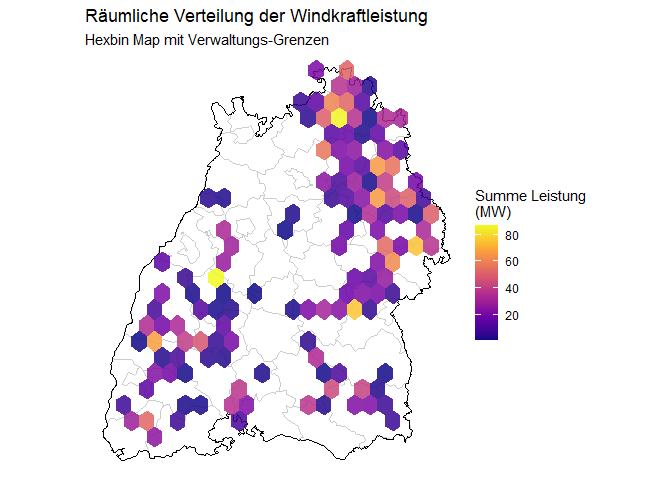
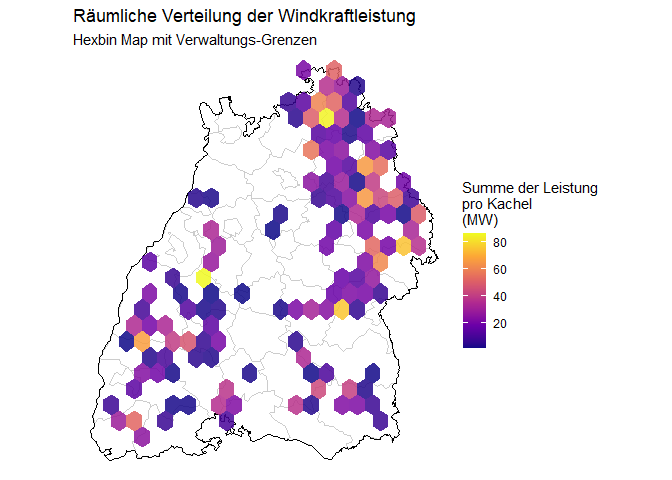
Updated info texts

Changed region(s): [[0.125, 0.125, 0.9062, 0.9688], [0.0938, 0.0, 0.6562, 0.0938]]

diff --git a/Projects/TobiTuTuebingen/dariodemenusV2.md b/Projects/TobiTuTuebingen/dariodemenusV2.md
@@ -1,3 +1,15 @@
+1.  Datenimport und Bereinigung Ziel: Vorbereitung einer sauberen
+    Datenbasis für die Analyse.
+
+Zunächst wurde der Datensatz WindenergieBW.csv importiert. Um die
+Datenverarbeitung zu erleichtern, wurden die Spaltennamen vereinfacht
+(z. B. Umbenennung von ‘Generatorleistung \[MW\]’ zu ‘Leistung\_MW’).
+Ein wesentlicher Schritt war die Umwandlung des Inbetriebnahmedatums von
+einem Textformat in ein Datumsformat, um daraus das Baujahr (‘Jahr’) zu
+extrahieren. Zudem wurden Datensätze ohne gültige Geokoordinaten
+(Ost/Nord) herausgefiltert, um eine fehlerfreie kartografische
+Darstellung zu gewährleisten.
+
     # Import using readr. 
     # The locale encoding argument helps ensure special characters are read correctly.
     wind_data <- read_delim("WindenergieBW.csv", 
@@ -181,6 +193,15 @@
 
 Vorschau der bereinigten Winddaten
 
+1.  Zeitliche Entwicklung: Ausbau vs. Leistung (Dual-Axis Plot) Ziel:
+    Darstellung, wie sich die Anzahl der Neubauten im Verhältnis zur
+    installierten Leistung entwickelt hat.
+
+Diese Visualisierung vergleicht die Anzahl der neu gebauten Windräder
+(blaue Balken) mit der neu installierten Leistung in MW (rote Linie) pro
+Jahr. Dabei wurde ein Skalierungsfaktor von 3 verwendet, um beide
+Metriken in einer Grafik lesbar zu machen.
+
     # 1. Define a scaling factor
     scale_factor <- 3 
     # Das Ziel: 1,2 GW = 1200 MW
@@ -227,7 +248,15 @@ Vorschau der bereinigten Winddaten
         caption = "Datenquelle: LUBW"
       )
 
-![](dariodemenusV2_files/figure-markdown_strict/dual-axis-plot-1.png)
+![](dariodemenusV2_files/figure-markdown_strict/dual-axis-plot-1.png) 3.
+Bestandsentwicklung: Kumulierte Gesamtleistung Ziel: Darstellung der
+verfügbaren Gesamtkapazität in Baden-Württemberg über die Zeit.
+
+Anstatt nur den jährlichen Zubau zu betrachten, zeigt dieses
+Flächendiagramm die Entwicklung der gesamten installierten Leistung
+(Bestand) in Baden-Württemberg. Hierfür wurden die jährlichen
+Leistungswerte kumuliert. Die grüne Fläche visualisiert das wachsende
+Energiepotenzial über die Jahre bis zum aktuellen Gesamtbestand.
 
     # 1. Daten aggregieren und kumulieren
     cumulative_stats <- clean_wind %>%
@@ -266,6 +295,22 @@ Vorschau der bereinigten Winddaten
       )
 
 ![](dariodemenusV2_files/figure-markdown_strict/cumulative_wind_capacity-1.png)
+4. Szenarien bis 2030 Ziel: Prognose, ob die politischen Ziele mit dem
+aktuellen Tempo erreichbar sind.
+
+Um die zukünftige Entwicklung bis 2030 abzuschätzen, wurden drei
+Szenarien berechnet und visualisiert:
+
+Weiter wie bisher (Rot): Eine Fortführung des linearen Trends basierend
+auf dem Durchschnitt der letzten 5 Jahre (Status Quo).
+
+Verdopplung des Tempos (Orange): Ein optimistischeres Szenario, bei dem
+die Ausbaugeschwindigkeit verdoppelt wird.
+
+Zielpfad (Blau/Grün): Der notwendige Pfad, um das politische Ziel von
+6.100 MW Gesamtleistung (bzw. ca. 1.400 Anlagen) bis 2030 zu erreichen.
+Der Vergleich zeigt deutlich die Lücke zwischen dem aktuellen Trend und
+den notwendigen Maßnahmen zur Zielerreichung.
 
     # 1. IST-ZUSTAND BERECHNEN (MW)
     # Wir summieren die Leistung pro Jahr und bilden die kumulierte Summe
@@ -467,7 +512,17 @@ Vorschau der bereinigten Winddaten
       ) +
       theme(legend.position = "bottom")
 
-![](dariodemenusV2_files/figure-markdown_strict/scenarios_2030-1.png)
+![](dariodemenusV2_files/figure-markdown_strict/scenarios_2030-1.png) 5.
+Korrelation technischer Parameter Ziel: Untersuchung des Zusammenhangs
+zwischen Baugröße und Leistung.
+
+Mithilfe einer Korrelationsmatrix wurde der statistische Zusammenhang
+(Pearson-Koeffizient) zwischen der Nabenhöhe, dem Rotordurchmesser und
+der Generatorleistung untersucht. Die Werte nahe 1 (rot) zeigen eine
+sehr starke positive Korrelation. Das bedeutet technisch: Je höher die
+Nabe und je größer der Rotor, desto höher ist die erzielte Leistung der
+Windkraftanlage. Die Signifikanz dieser Zusammenhänge wurde statistisch
+bestätigt.
 
     # --- DEFINITION DER LABELS ---
     my_labels <- c(
@@ -492,7 +547,9 @@ Vorschau der bereinigten Winddaten
       # Plotting
       ggplot(aes(x = Var1, y = Var2, fill = rho)) +
       geom_tile(color = "white") +
-      geom_text(aes(label = round(rho, 2)), color = "black", size = 4) +
+      
+      # --- ÄNDERUNG: paste0 fügt das Sternchen an den gerundeten Wert an ---
+      geom_text(aes(label = paste0(round(rho, 2), "*")), color = "black", size = 4) +
       
       # Adjusted color scale (Sequential since no negative correlations expected)
       scale_fill_gradient(low = "white", high = "red", 
@@ -504,11 +561,23 @@ Vorschau der bereinigten Winddaten
       theme_minimal() +
       coord_fixed() +
       labs(title = "Korrelogramm technischer Parameter",
-           subtitle = "Pearson Korrelationskoeffizient",
+           subtitle = "Pearson Korrelationskoeffizient (* signifikant)",
            x = "", y = "") +
       theme(panel.grid = element_blank())
 
 ![](dariodemenusV2_files/figure-markdown_strict/correlogram-1.png)
+
+1.  Räumliche Verteilung (Hexbin Map) Ziel: Geografische Verortung der
+    Windkraftschwerpunkte in Baden-Württemberg.
+
+Für die räumliche Analyse wurde eine Hexbin-Karte erstellt. Anstatt
+jeden einzelnen Standort als Punkt darzustellen, fasst diese Methode
+benachbarte Anlagen in sechseckigen Kacheln (Hexagons) zusammen und
+summiert deren Leistung. Dies ermöglicht eine bessere Erkennung von
+regionalen Clustern und Schwerpunkten der Windkraftnutzung, ohne durch
+Overplotting (überlappende Punkte) an Übersichtlichkeit zu verlieren.
+Zur besseren Orientierung wurden die Verwaltungsgrenzen der Landkreise
+(NUTS-3) darübergelegt.
 
     # Geodaten zentral vorbereiten (werden für beide Karten benötigt)
     # NUTS 1 = Bundesland (DE1 = BW), NUTS 3 = Landkreise
@@ -605,7 +674,7 @@ Top 10 Landkreise nach Leistung
       
       # 2. Hexbins
       stat_summary_hex(fun = sum, bins = 20, alpha = 0.85) +
-      scale_fill_viridis_c(option = "C", name = "Summe Leistung\n(MW)") +
+      scale_fill_viridis_c(option = "C", name = "Summe der Leistung\npro Kachel\n(MW)") +
       
       theme_void() + 
       coord_sf(datum = NA) +
@@ -613,6 +682,79 @@ Top 10 Landkreise nach Leistung
            subtitle = "Hexbin Map mit Verwaltungs-Grenzen")
 
 ![](dariodemenusV2_files/figure-markdown_strict/map-hexbin-with-boundaries-1.png)
+
+    # 1. Daten vorbereiten (wie zuvor)
+    wind_points <- clean_wind %>%
+      st_as_sf(coords = c("Ost", "Nord"), crs = 25832)
+
+    map_data_agg <- st_join(wind_points, bw_kreise) %>%
+      st_drop_geometry() %>%
+      group_by(NUTS_ID) %>%
+      summarise(
+        Anzahl_Windraeder = n(),
+        Sum_Leistung = sum(Leistung_MW, na.rm = TRUE)
+      )
+
+    # 2. Labels erstellen und Geometrie anfügen
+    map_data <- bw_kreise %>%
+      left_join(map_data_agg, by = "NUTS_ID") %>%
+      mutate(
+        # A) Namen bereinigen: "Tübingen, Landkreis" -> "Tübingen"
+        Clean_Name = str_remove_all(NUTS_NAME, ", Landkreis|, Stadtkreis|Landkreis |Stadtkreis "),
+        
+        # B) Abkürzung erstellen: Erste 3 Buchstaben (z.B. "Tüb")
+        # Falls du lieber den ganzen Namen willst, nutze einfach 'Clean_Name' im Plot unten
+        Label_Kurz = str_sub(Clean_Name, 1, 3) 
+      )
+
+    # 3. Plotten
+    ggplot(map_data) +
+      geom_sf(aes(fill = Sum_Leistung), color = "white", size = 0.2) +
+      
+      # --- NEU: Text-Labels hinzufügen ---
+      geom_sf_text(
+        aes(label = Label_Kurz), # Ändere zu 'Clean_Name' für "Tübingen" statt "Tüb"
+        size = 2.5,              # Textgröße
+        color = "black",         # Textfarbe
+        fontface = "bold",       # Fettdruck für bessere Lesbarkeit
+        check_overlap = TRUE     # Verhindert, dass sich Texte unleserlich überlagern
+      ) +
+      # -----------------------------------
+
+      scale_fill_viridis_c(
+        option = "C", 
+        name = "Leistung (MW)",
+        na.value = "grey90",
+        direction = 1
+      ) +
+      
+      theme_void() +
+      labs(
+        title = "Windkraftleistung pro Landkreis",
+        subtitle = "Mit abgekürzten Landkreis-Namen",
+        caption = "Daten: LUBW | Geodaten: Eurostat"
+      ) +
+      coord_sf(datum = NA)
+
+![](dariodemenusV2_files/figure-markdown_strict/landkreis_map_labels-1.png)
+7. Ökonomische Analyse: Steuerkraft-Proxy Ziel: Schätzung, welche
+Landkreise potenziell am meisten von Gewerbesteuereinnahmen profitieren.
+
+Da die reine Leistung nicht direkt den Steuereinnahmen entspricht, wurde
+ein ‘Steuerkraft-Proxy’ entwickelt. Dieser gewichtet die Leistung einer
+Anlage anhand ihres Alters, um steuerliche Abschreibungszyklen zu
+simulieren:
+
+Neue Anlagen (&lt; 5 Jahre): Gewicht 0,8 (Hohe Abschreibung, aber
+EEG-Umlagen).
+
+Abschreibungsphase (5–12 Jahre): Gewicht 0,3 (Niedriges Steuerpotenzial
+durch Zins/Tilgung).
+
+‘Cash Cows’ (&gt; 12 Jahre): Gewicht 1,0 (Anlage abgeschrieben, hoher
+Ertrag fließt in Gewerbesteuer). Das Ergebnis zeigt ein Ranking der
+Landkreise, die voraussichtlich am stärksten finanziell von den
+Windparks profitieren.
 
     # 1. BERECHNUNG DES STEUER-PROXY
     tax_analysis <- clean_wind %>%
